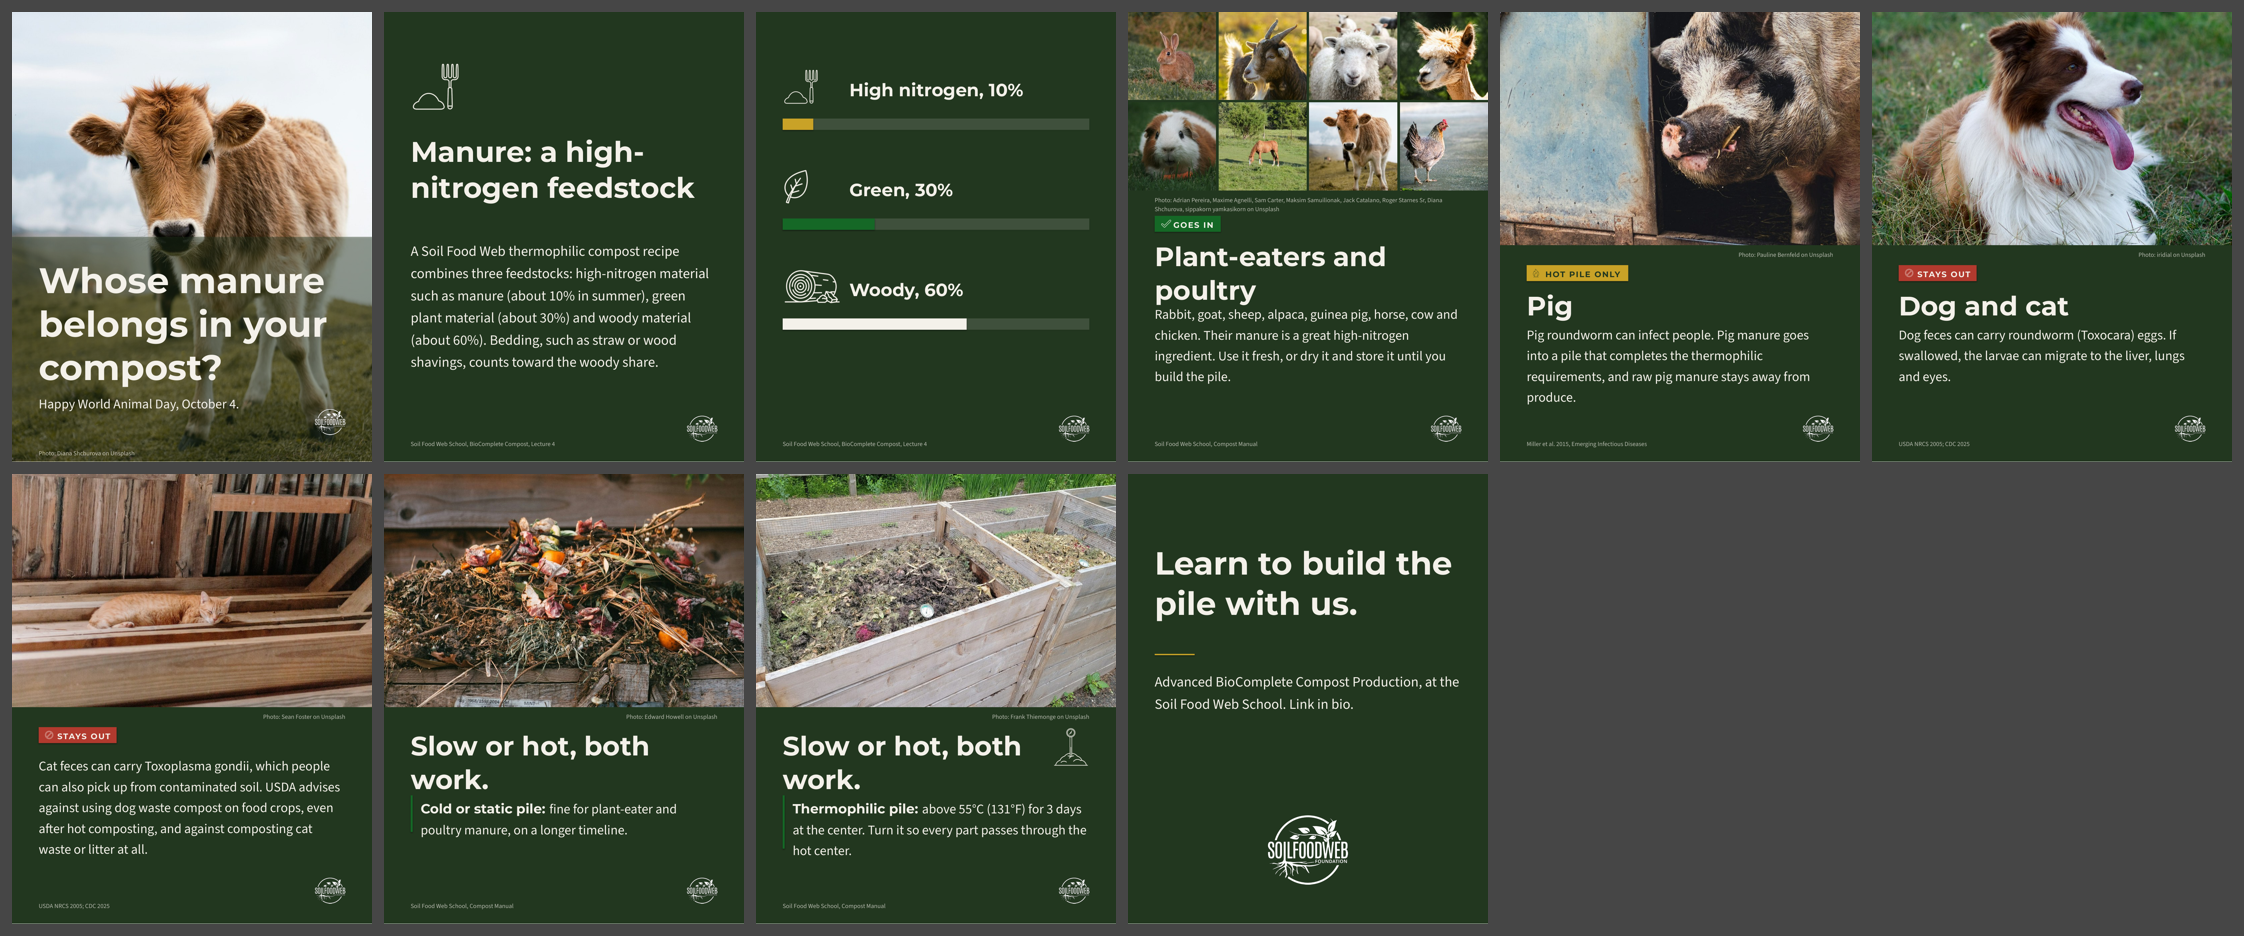
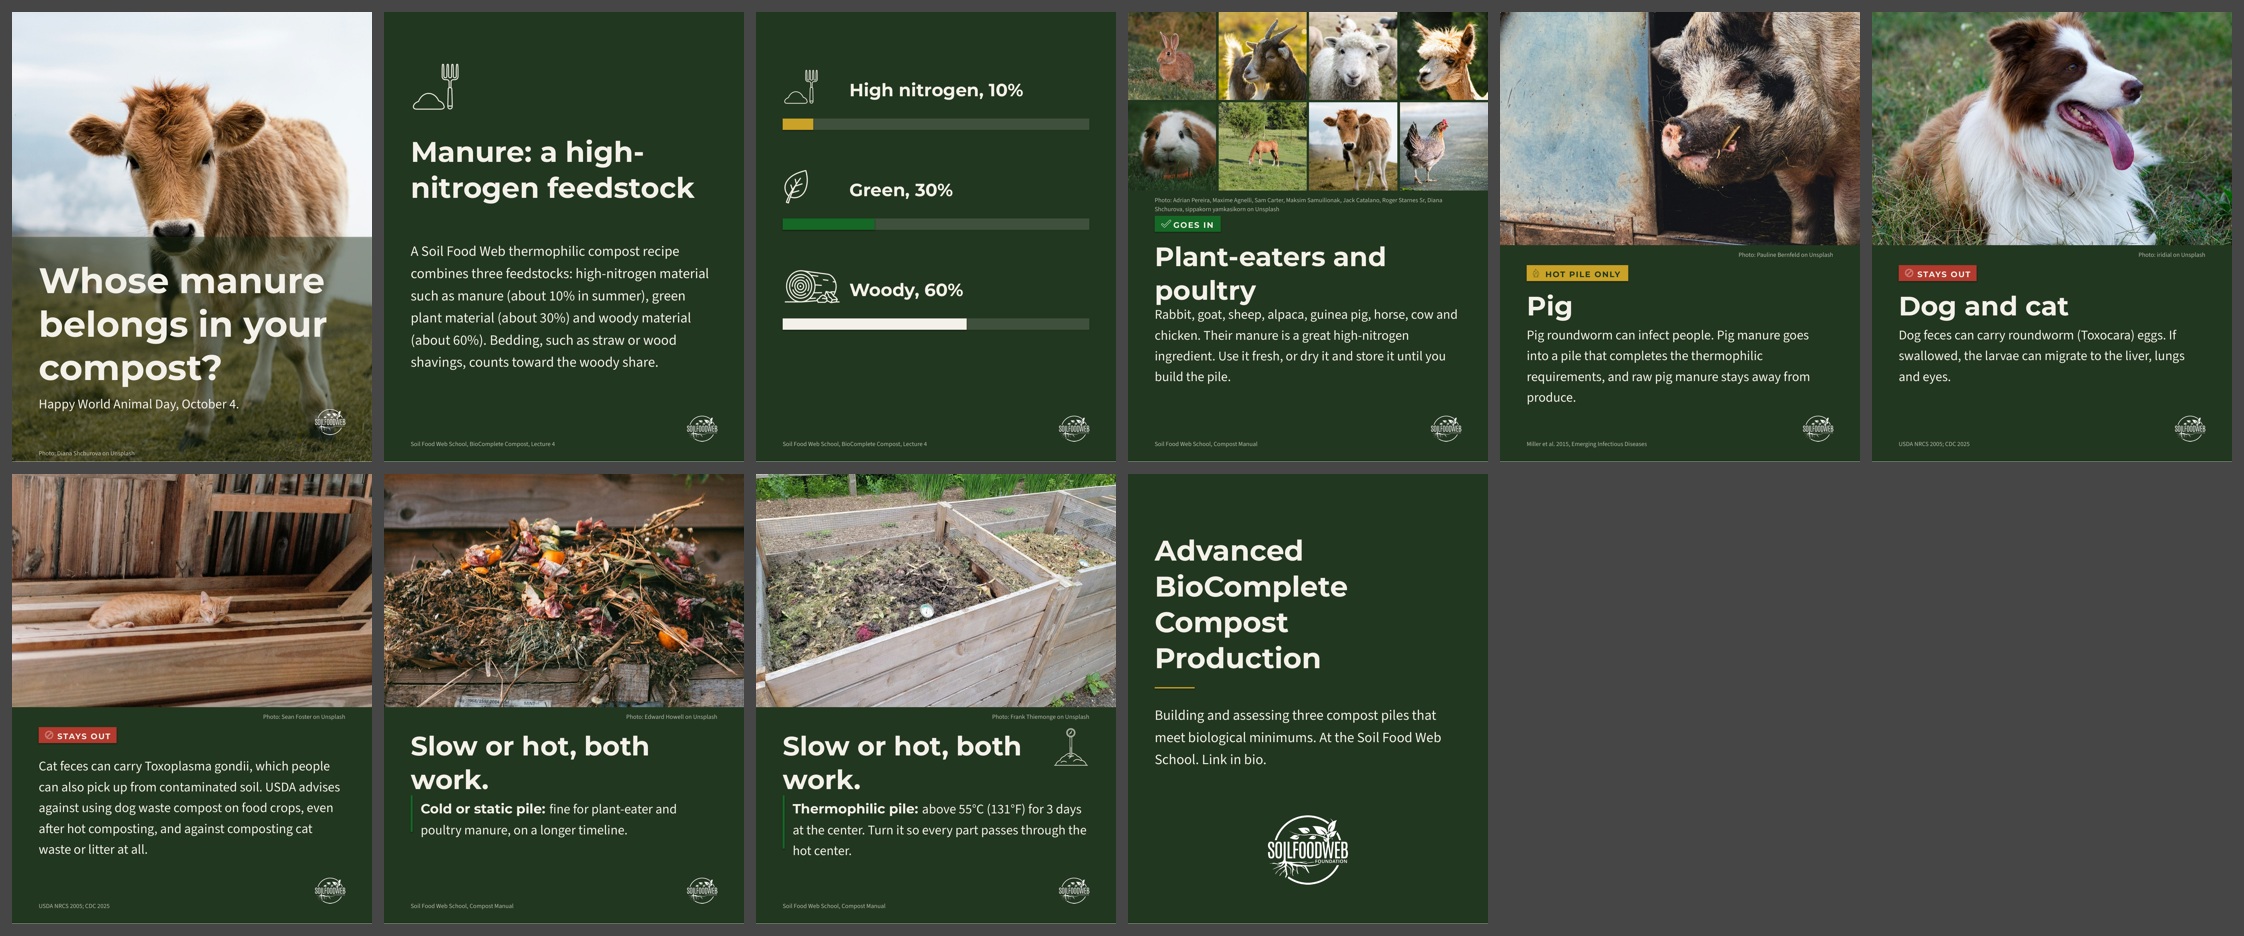
World Animal Day v2: closing slide uses the course name and its copy-deck description instead of the old headline
Claude-Session: https://claude.ai/code/session_014HGzAbxBh54nuyJHG7tse8

Changed region(s): [[0.4991, 0.5577, 0.6551, 0.8365]]

diff --git a/templates/posts/october/build_world_animal_day_v2.py b/templates/posts/october/build_world_animal_day_v2.py
@@ -199,9 +199,11 @@ def build():
 
     # 10 closing
     s = d.slide(DEEP, "Closing. Course: https://school.soilfoodweb.com/bundles/advanced-biocomplete-compost-production", counter=False)
-    text(s, M, 200, CW, 320, "Learn to build the pile with us.", 72, CREAM, HEAD, True, spacing=1.05)
-    rect(s, M, 540, 120, 4, GOLD)
-    text(s, M, 580, CW, 120, "Advanced BioComplete Compost Production, at the Soil Food Web School. Link in bio.", 32, CREAM, BODY, spacing=1.3)
+    head(s, 170, "Advanced BioComplete Compost Production", 64)      # renders as four lines, to about y 600
+    y = 640
+    rect(s, M, y, 120, 4, GOLD)
+    body(s, y + 40, "Building and assessing three compost piles that meet biological minimums. At the Soil Food Web "
+                    "School. Link in bio.", 32)   # course line from docs/copy-deck-v2.md
     lw = 240
     logo(s, (W - lw) / 2, 900 + (450 - lw * 668 / 743) / 2, lw, white=True)
     save(d, "04-10-2026-sun-ig-world-animal-day-v2.pptx")
